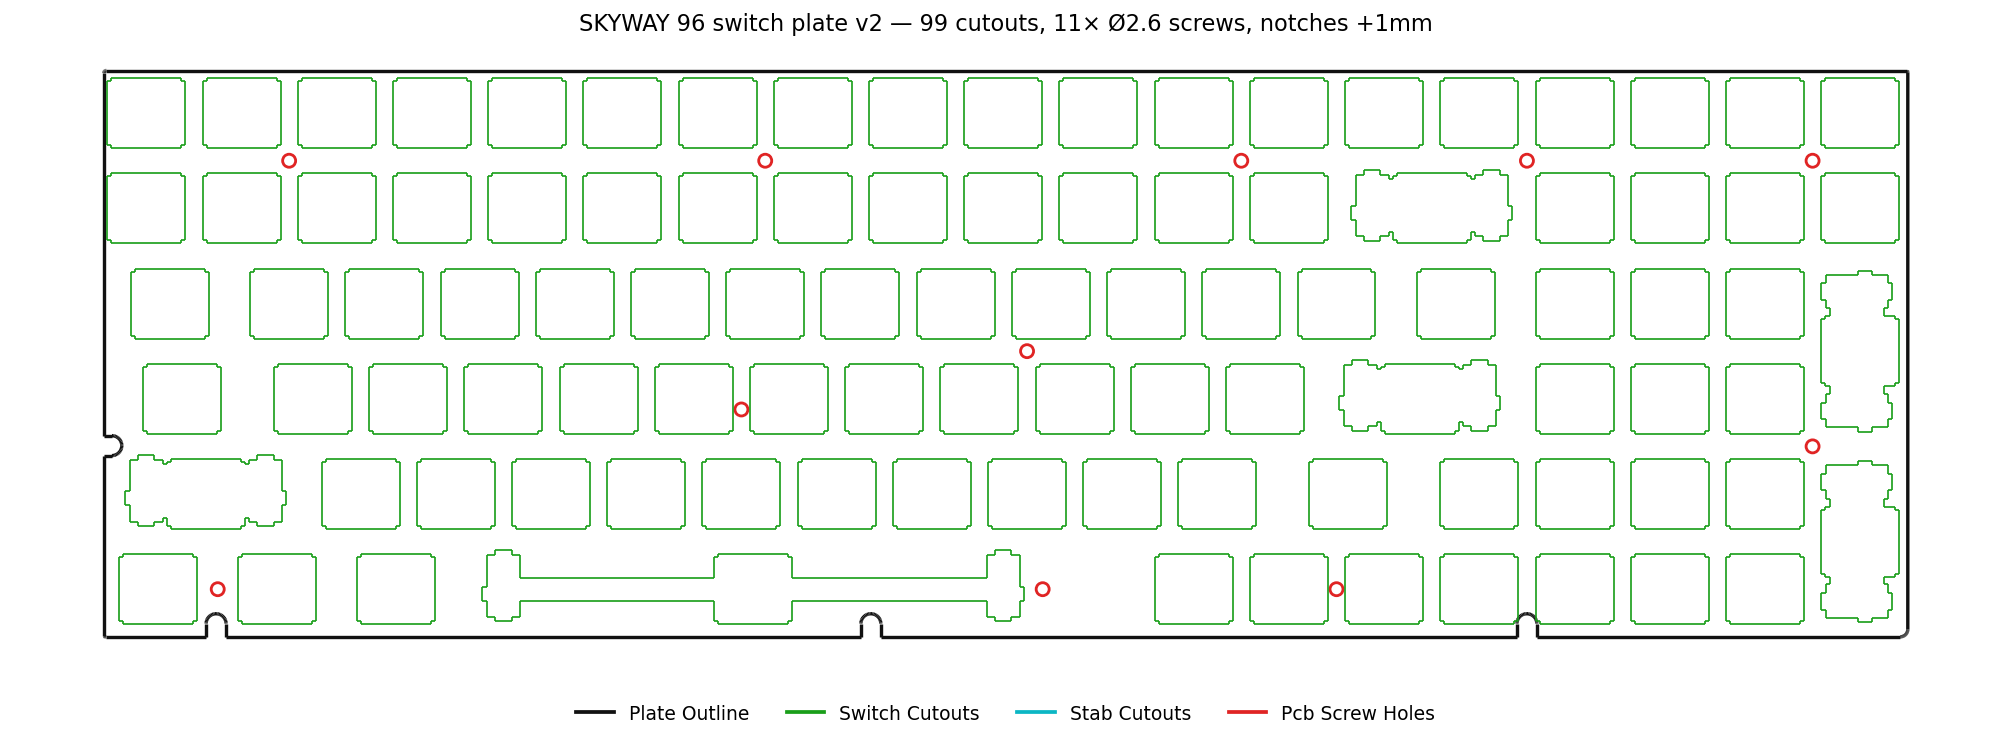
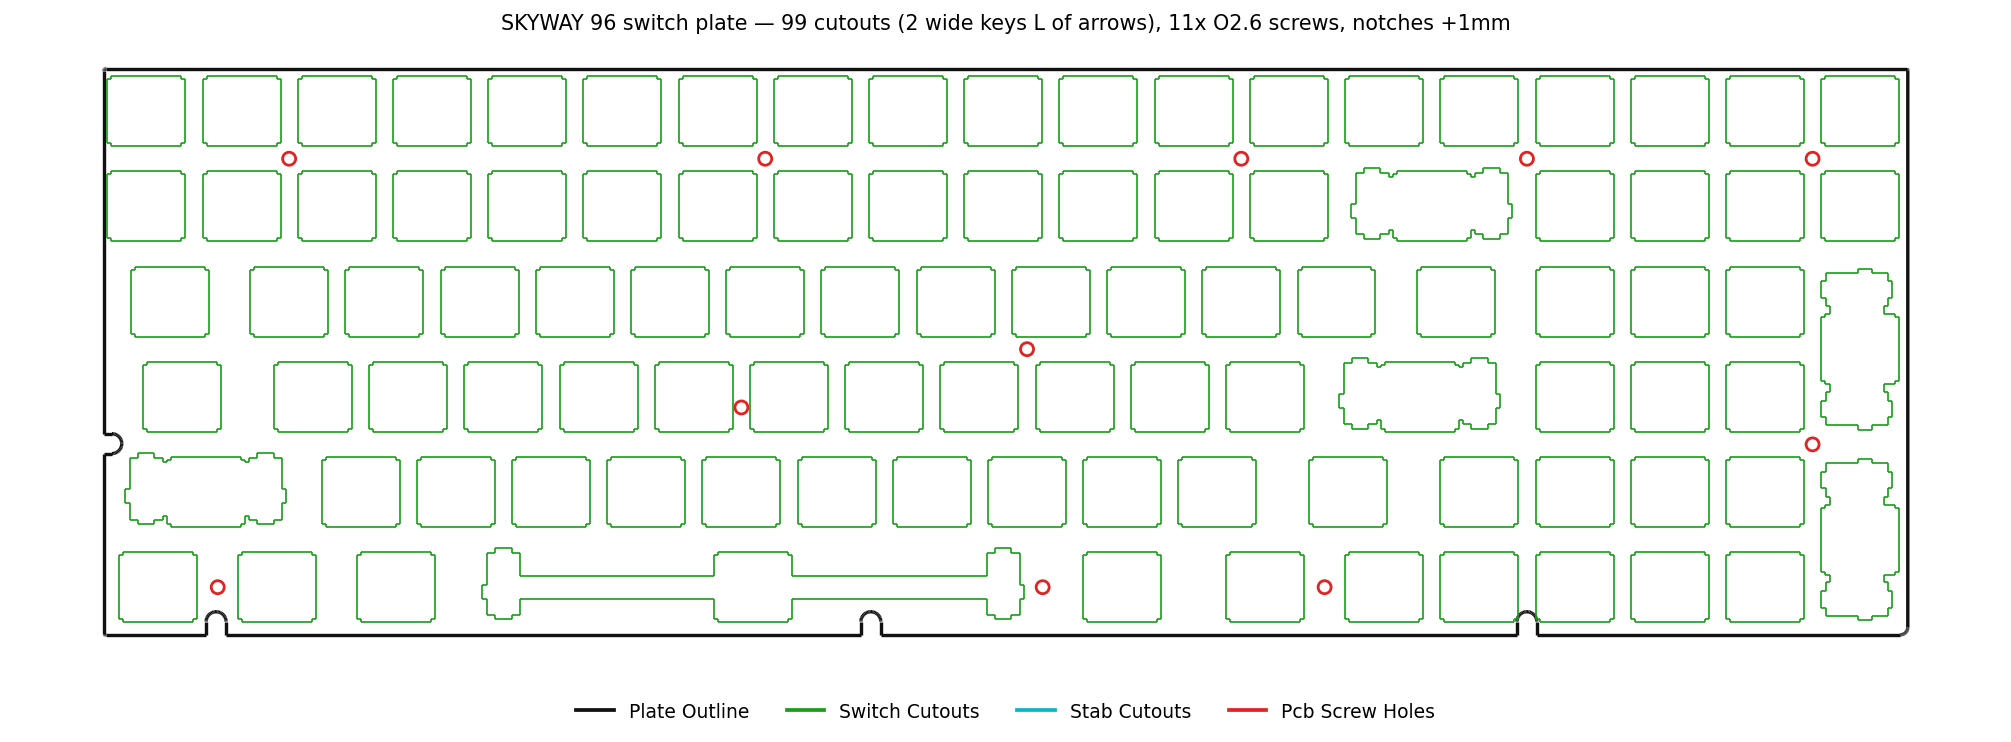
Plate: bottom row left of arrows = 2 wide keys (1.5u RCtrl+Fn), per PCB

diff --git a/Plate/README.md b/Plate/README.md
@@ -16,10 +16,10 @@ Cut from 1.5 mm FR4, brass, aluminium, or POM (laser / waterjet). The DXF is
 SendCutSend-ready (no zero-length segments).
 
 **Changes from PCB-exact:** screw holes opened Ø2.4→Ø2.6 and notches grown
-+1 mm for install wiggle; bottom-row RAlt cutout removed (2 keys — RCtrl + Fn —
-left of the arrows, matching the build). Two screw holes are PCB-constrained
-~0.42 mm from a switch cutout — fine for FR4, marginal in metal; don't go above
-Ø2.6 without thickening those walls.
++1 mm for install wiggle; the bottom row left of the arrows is **2 wide keys
+(1.5u each — RCtrl + Fn)** instead of three 1u, matching the PCB's two switches
+there. One screw hole is PCB-constrained ~0.42 mm from a switch cutout — fine
+for FR4, marginal in metal; don't go above Ø2.6 without thickening that wall.
 
 ## Source
 